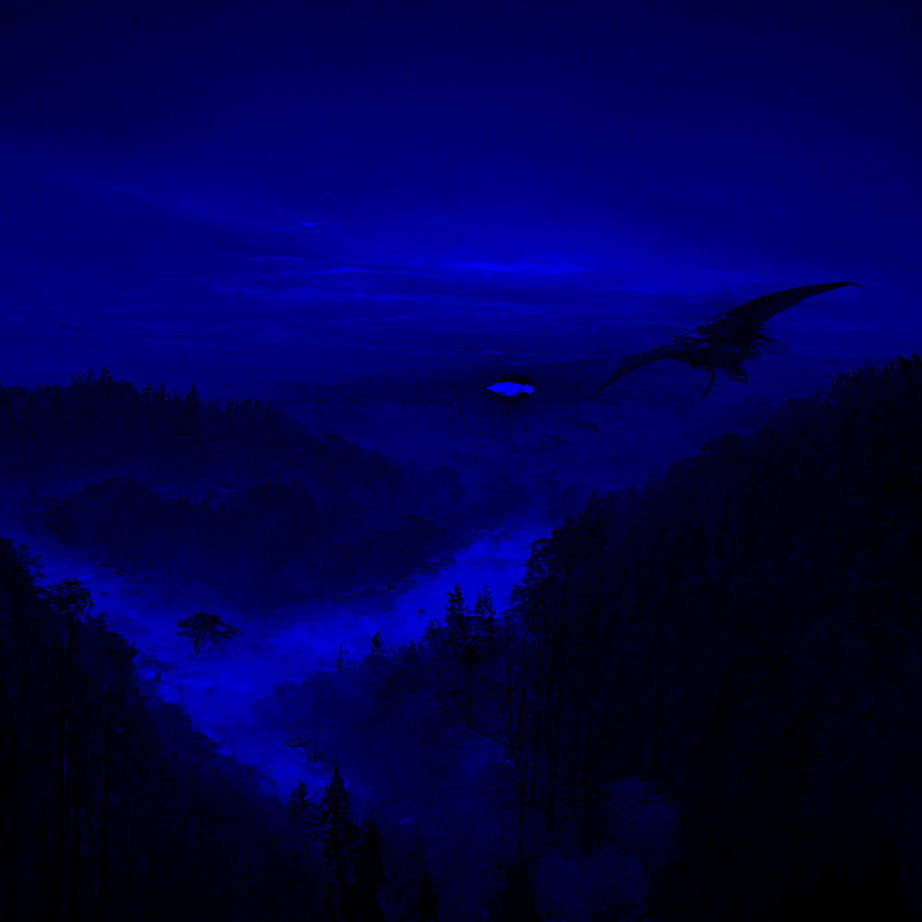
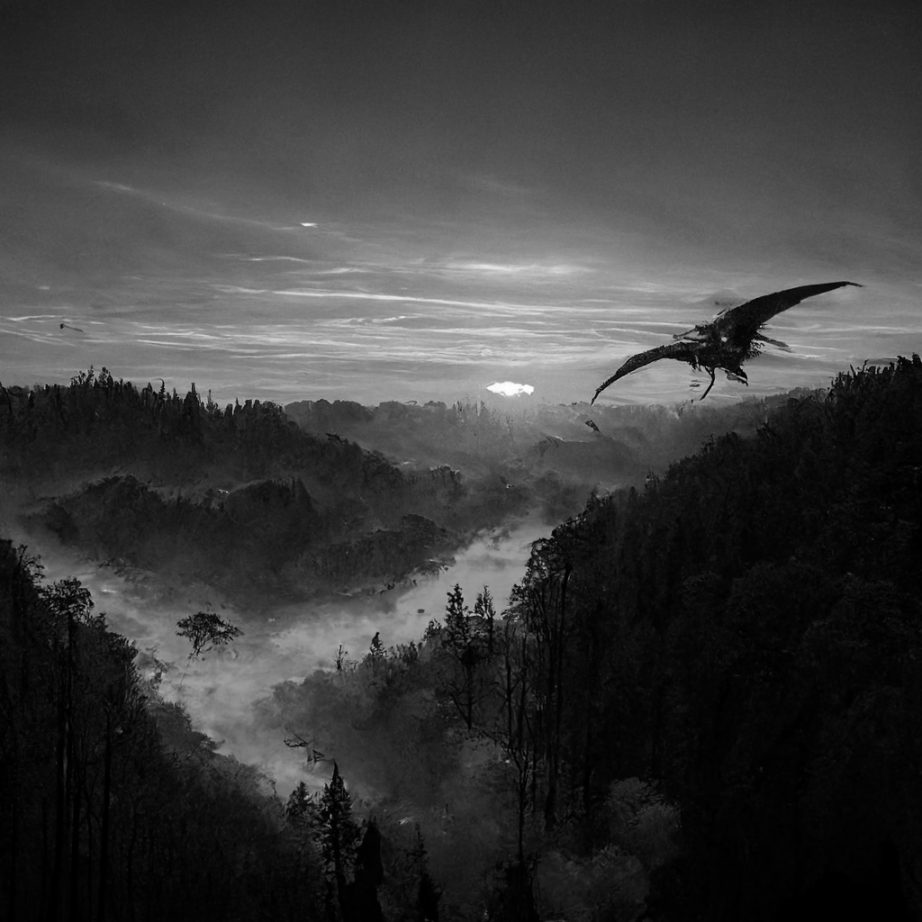
added grayscaling code

diff --git a/_notebooks/ColorScale.java b/_notebooks/ColorScale.java
@@ -73,8 +73,9 @@ public class ColorScale extends ImageData {
         if (color.equals("Gray")){
             for (int i = 0; i < this.height; i++){
                 for (int j = 0; j < this.width; j++){
-                    int rgb = img.getRGB(j, i);
-                    int r = 
+                    Color col = new Color(img.getRGB(j,i));
+                    int rgb = new Color(((col.getRed()+ col.getGreen()+ col.getBlue())/3), ((col.getRed()+ col.getGreen()+ col.getBlue())/3), ((col.getRed()+ col.getGreen()+ col.getBlue())/3)).getRGB();
+                    img.setRGB(j, i, rgb);
                 }
             }
         }
@@ -95,6 +96,7 @@ public class ColorScale extends ImageData {
         BlueSunset.scale("Red");
         BlueSunset.scale("Green");
         BlueSunset.scale("Blue");
+        BlueSunset.scale("Gray");
     }
 
 }
